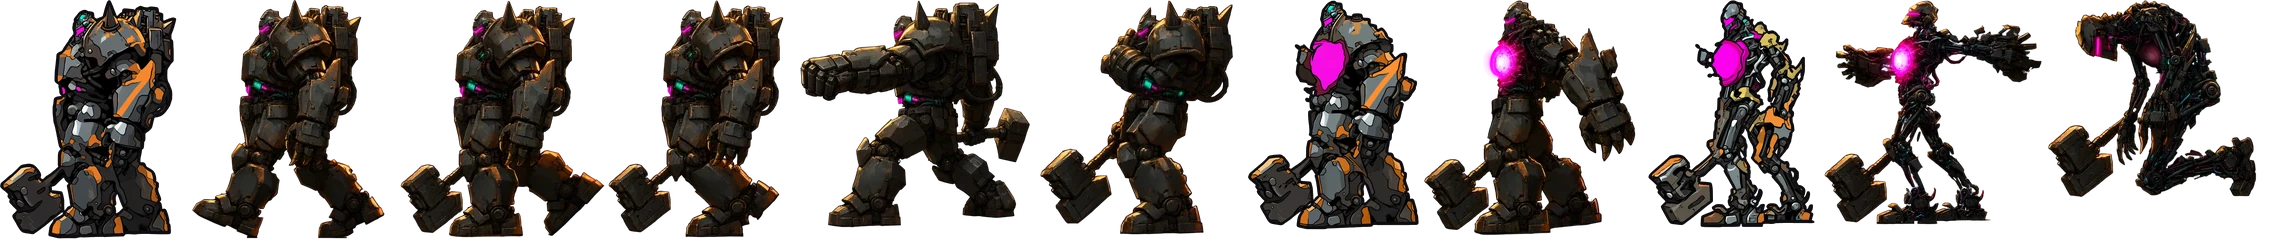
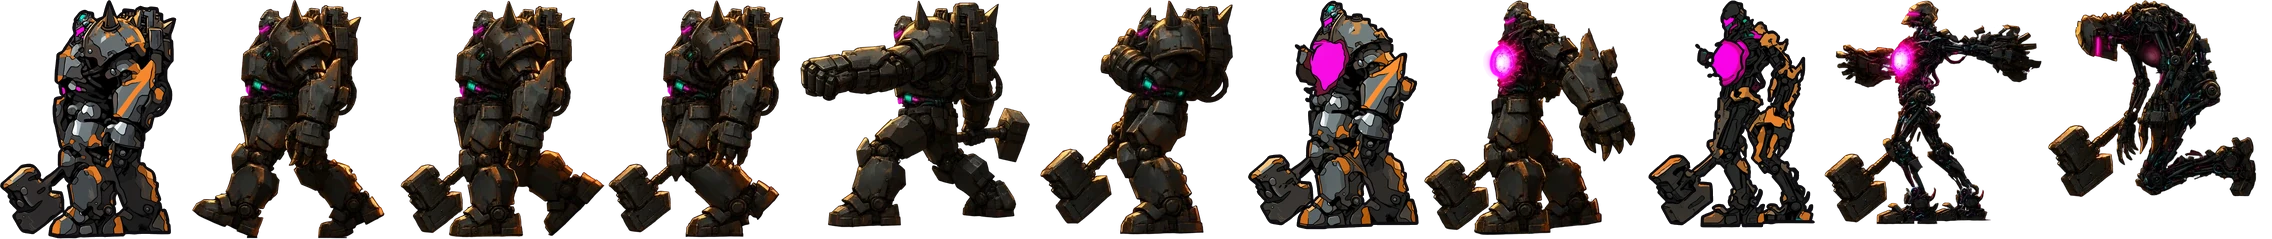
Journey: D5 s3 back in the idle's dark gunmetal and rust orange, with an inked core (FAL-830 audit)

Changed region(s): [[0.7188, 0.0293, 0.8125, 0.9665]]

diff --git a/assets/journey/README.md b/assets/journey/README.md
@@ -230,6 +230,7 @@ batch lands, that sheet is still in the painted style.
   Learner's costume (brown leather jacket, dark brown trousers, magenta scarf, chrome shoulder plate, teal pack),
   with his cap instead of her headband. D5 stays a dark machine: almost-black gunmetal plates with a few rust-orange
   ones. Stage looks: D3 `s2` adds hot-magenta lines along the plate seams, D4 `s2` turns the shoulder tubes magenta,
-  D5 `s2` opens the chest on a flat magenta core and `s3` strips it to a chrome frame. Glows are flat inked shapes,
+  D5 `s2` opens the chest on a flat magenta core and `s3` strips it to a dark gunmetal frame with a few rust-orange plates
+  (the same palette as the idle; no chrome or yellow). Glows are flat inked shapes,
   with no bloom outside the outline. Frame ids, anims, `stages` and `hand` are unchanged; only `x`, `y`, `w`, `h`,
   `ox`, `oy` were re-measured (each new frame is within 5% of the old size, with the feet on the bottom row).
